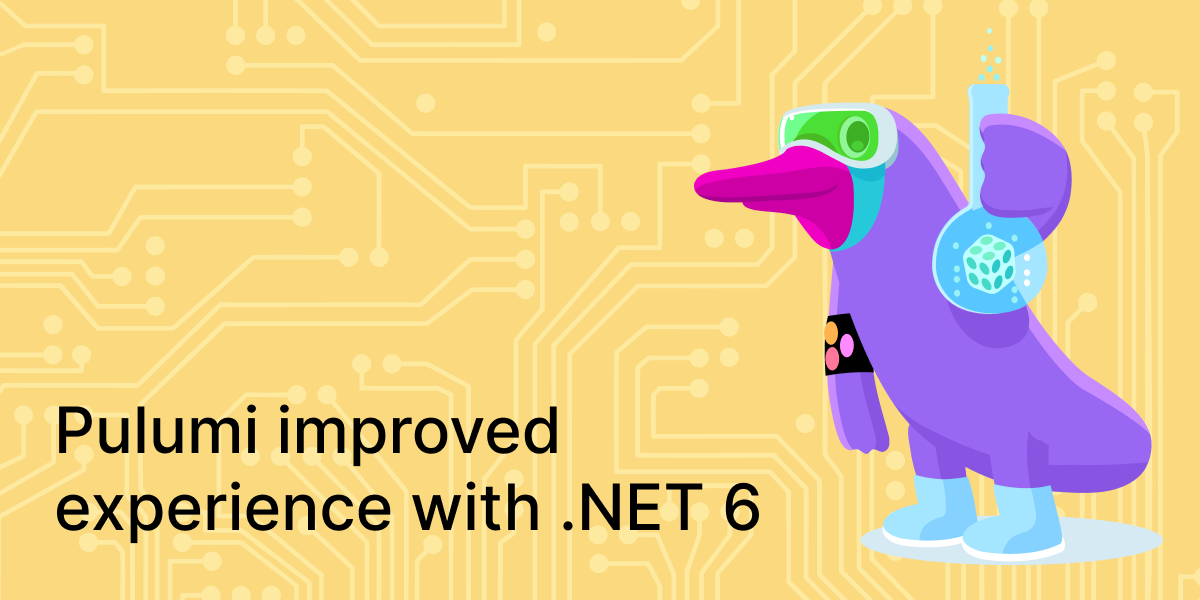
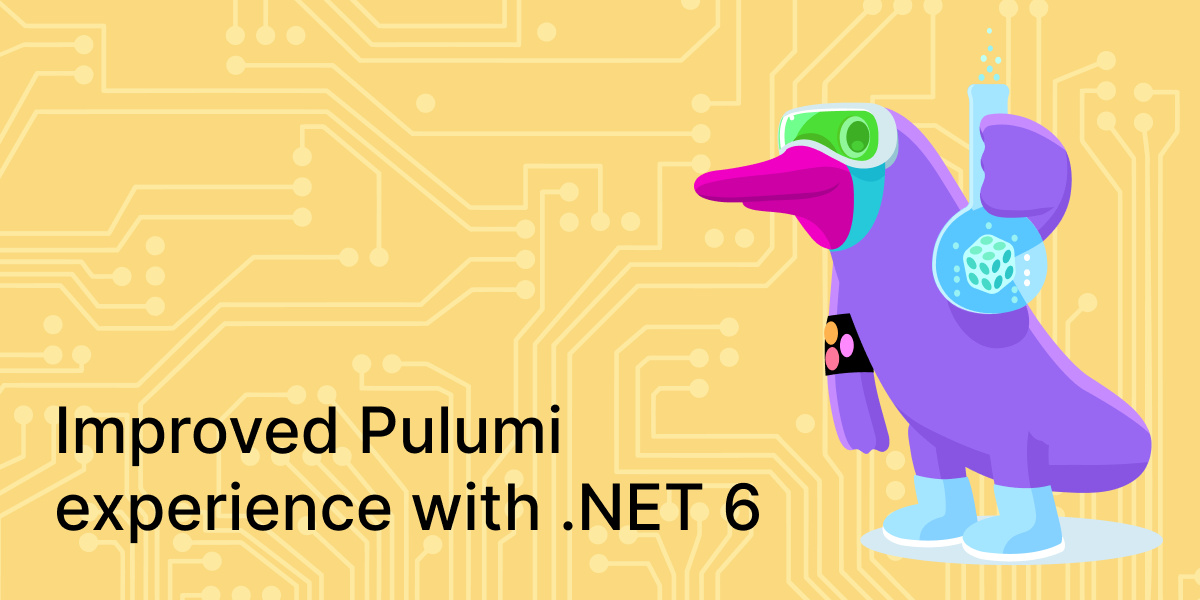
Minor updates based on Mikhail's comments

Changed region(s): [[0.0617, 0.66, 0.4625, 0.78]]

diff --git a/themes/default/content/blog/pulumi-targets-dotnet-6/index.md b/themes/default/content/blog/pulumi-targets-dotnet-6/index.md
@@ -1,19 +1,19 @@
 ---
-title: "Pulumi improved experience with .NET 6"
+title: "Improved Pulumi experience with .NET 6"
 authors: ["zaid-ajaj"]
 tags: ["dotnet", "csharp", "fsharp", "vb.net"]
-meta_desc: "Talking about the improved experience with Pulumi projects running on .NET 6, how it simplifies program structure and upgrades generated C# code."
+meta_desc: "Pulumi projects default to .NET 6 with simplified program structure and leaner generated C# code"
 meta_image: thumbnail.png
-date: "2022-07-21"
+date: "2022-07-22"
 ---
 
-In this blog post, we will talk about how Pulumi is now using [.NET 6](https://docs.microsoft.com/en-us/dotnet/core/whats-new/dotnet-6), the latest Long-Term Support version of .NET as our default across the ecosystem. We will discuss the changes applied to templates, program structure and code generation. We also explain how Pulumi C# projects can benefit from latest features in .NET 6 and how it simplifies your programs overall. Let's dive in, shall we?
+In this blog post, we will talk about how Pulumi is now using [.NET 6](https://docs.microsoft.com/en-us/dotnet/core/whats-new/dotnet-6), the latest Long-Term Support version of .NET, as our default across the ecosystem. We will discuss the changes applied to templates, program structure and code generation. We also explain how Pulumi C# projects can benefit from the latest features in .NET 6 and how it simplifies your programs overall. Let's dive in, shall we?
 
 <!--more-->
 
 ### Templates
 
-All of our .NET templates have been updated which now use `net6.0` as the target framework. This means that projects created with `pulumi new` require at least the [.NET 6 SDK](https://dotnet.microsoft.com/en-us/download/dotnet/6.0) to build and run the projects. The templates also simplified the program structure quite a bit and not longer use `MyStack` classes to define resources in case of C# and VB.NET templates. F# templates didn't change that much because these already didn't use the class approach to define infrastructure.
+We updated all of our .NET templates to use `net6.0` as the target framework. This means that projects created with `pulumi new` require at least the [.NET 6 SDK](https://dotnet.microsoft.com/en-us/download/dotnet/6.0) to build and run the projects. The templates also simplified the program structure quite a bit and not longer use `MyStack` classes to define resources in case of C# and VB.NET templates. F# templates didn't change that much because these already didn't use the class approach to define infrastructure.
 
 ### Simplified program structure
 
@@ -95,12 +95,14 @@ It is worth mentioning that although the new templates and the accompanying gett
 
 Pulumi provides tools to translate from several IaC languages. These tools will generate Pulumi programs in any of our supported languages. This includes:
 
-- Translating [Azure Resource Manager (ARM)](https://docs.microsoft.com/en-us/azure/azure-resource-manager/templates/overview) templates using [arm2pulumi](https://www.pulumi.com/arm2pulumi/)
-- Translating Terrafrom code using [tf2pulumi](https://www.pulumi.com/tf2pulumi/)
-- Translating Kubernetes YAML using [kube2pulumi](https://www.pulumi.com/kube2pulumi/)
 - Translating [Pulumi YAML](https://www.pulumi.com/docs/intro/languages/yaml/) with the Pulumi CLI using `pulumi convert`
+- Translating [Azure Resource Manager (ARM)](https://docs.microsoft.com/en-us/azure/azure-resource-manager/templates/overview) templates using [arm2pulumi](https://www.pulumi.com/arm2pulumi/)
+- Translating Terraform code using [tf2pulumi](https://www.pulumi.com/tf2pulumi/)
+- Translating Kubernetes YAML using [kube2pulumi](https://www.pulumi.com/kube2pulumi/)
 
-These tools take their source language as input, convert it into the Pulumi intermediate language, then translate it into one of our supported languages. In the case of C#, the code generation has been updated to generate code that uses the latest features from .NET 6. It also fixed minor issues that were present in the translation logic.
+These tools take their source language as input, convert it into the Pulumi intermediate language, then translate it into one of our supported languages. In the case of C#, the code generation has been updated to produce code that uses the latest features from .NET 6. We've also fixed minor issues that were present in the translation logic.
+
+> The code generation update has landed in the Pulumi CLI and `pulumi convert`, the other tools however will pick up these updates soon.
 
 Let us take an example from Pulumi YAML and convert it to C#.
 
@@ -143,7 +145,7 @@ Now you can take this program and convert it to C# using
 pulumi convert --language csharp --out csharp-from-yaml
 ```
 
-This command generates a full C# project from the YAML program into the directory `./csharp-from-yaml`, then it restores the dependencies and builds the project. Now if you examine `Program.cs`, it contains the converted program and follows the succinct C# 10 syntax that targets .NET 6:
+This command generates a full C# project from the YAML program into the directory `./csharp-from-yaml`, then restores the dependencies and builds the project. Now if you examine `Program.cs`, it contains the converted program and follows the succinct C# 10 syntax that targets .NET 6:
 
 ```csharp
 using System.Collections.Generic;
@@ -179,4 +181,4 @@ return await Deployment.RunAsync(() =>
 
 ## Summary
 
-.NET 6 is the latest Long-Term Support version in the Microsoft ecosystem. Our new .NET 6 support makes for simpler and easier to write Pulumi programs. You can give it a try by [installing .NET 6](https://dotnet.microsoft.com/en-us/download/dotnet/6.0) and using one of the templates with `pulumi new`, then follow our updated [Get Started guide](https://www.pulumi.com/docs/get-started/) to get up and running quickly. Our code generation tools have been upgraded to emit code that targets the latest features of C# and fixes small correctness issues in the translation logic.
+.NET 6 is the latest Long-Term Support version in the Microsoft ecosystem. Our new .NET 6 support makes for simpler and easier to write Pulumi programs. You can give it a try by [installing .NET 6](https://dotnet.microsoft.com/en-us/download/dotnet/6.0) and using one of the templates with `pulumi new`, then follow our updated [Get Started guide](https://www.pulumi.com/docs/get-started/) to get up and running quickly. Our code generation tools have been upgraded to emit code that targets the latest features of C# and fixes minor correctness issues in the translation logic.
